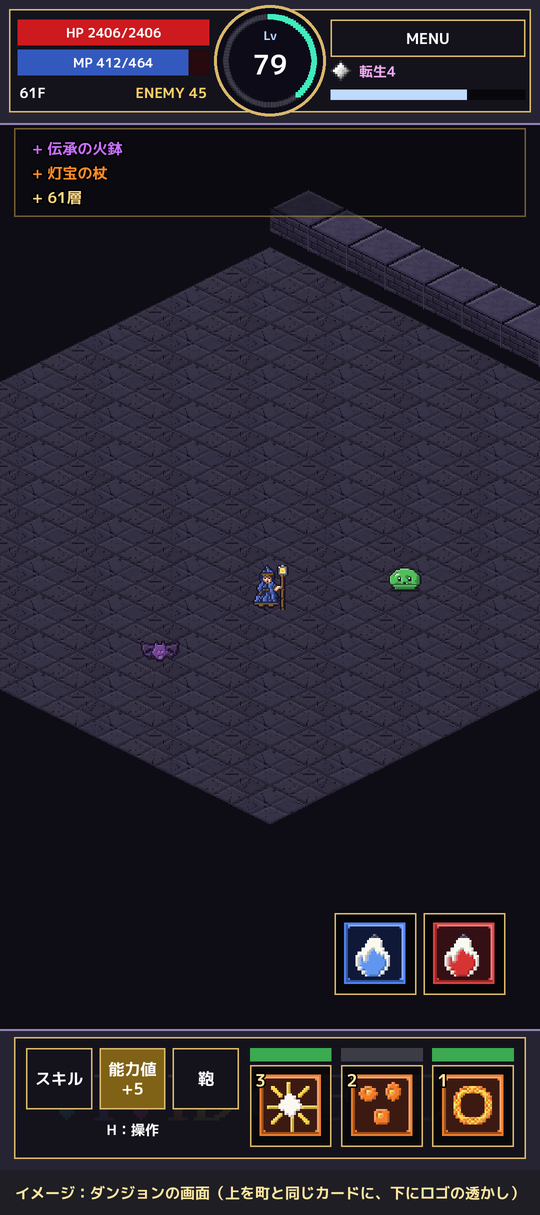
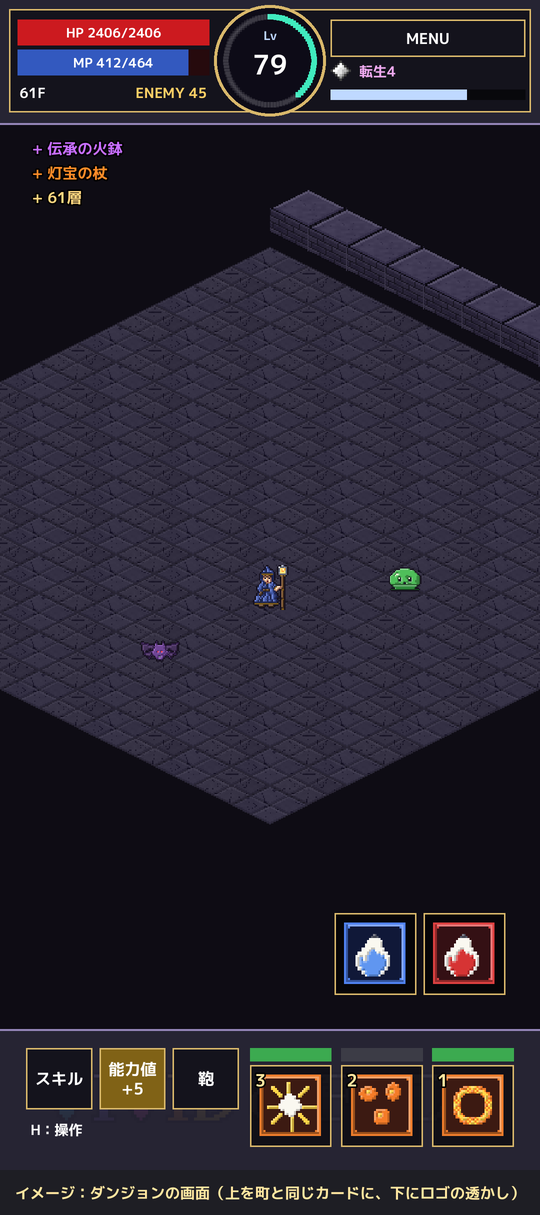
Dungeon HUD: no frame behind the message log or the shortcut area; H hint left-aligned
Claude-Session: https://claude.ai/code/session_01XMEo4x59g4Ygvken3HiQNb

diff --git a/Game/Assets/Scripts/UI/Hud.cs b/Game/Assets/Scripts/UI/Hud.cs
@@ -1546,10 +1546,8 @@ namespace VividOfFade
             var frameColor = FrameGold;
             float frameT = Mathf.Max(2f, Mathf.Round(H * 0.0012f));
             var msgR = MessageWindow;
-            Fill(msgR, new Color(0.03f, 0.03f, 0.05f, 0.5f));                 // 半透明：下のダンジョンが透けて見える
-            OrnateFrame(msgR, new Color(frameColor.r, frameColor.g, frameColor.b, 0.55f), frameT, false, false);
-            var scR = ShortcutPanel;
-            Fill(scR, new Color(0.08f, 0.075f, 0.11f, 1f));
+            // メッセージは枠なし（縁取りした文字だけを、ダンジョンの上に）
+            var scR = ShortcutPanel; // ショートカットの区画は枠なし（帯の上に、ボタンだけを置く）
             {
                 // 透かしのロゴ（ボタンの後ろにうっすら）
                 var logo = TitleArt.Logo;
@@ -1560,7 +1558,6 @@ namespace VividOfFade
                 GUI.DrawTexture(new Rect(scR.center.x - lw2 * 0.5f, scR.center.y - lh * 0.5f, lw2, lh), logo);
                 GUI.color = oldL;
             }
-            OrnateFrame(scR, frameColor, frameT);
 
             // メッセージ：直近の行を残す（新しいものほど下）。来たばかりの行は明るく、古い行は少し暗い
             {
@@ -1620,7 +1617,7 @@ namespace VividOfFade
                 // 操作の案内（PC・エディタ向け）：鞄・能力値・スキルのボタンの下の空きに
                 var q0 = QuickRect(0); var q2 = QuickRect(2);
                 float qx = Mathf.Min(q0.x, q2.x), qw = Mathf.Max(q0.xMax, q2.xMax) - qx;
-                var hint = new GUIStyle(small) { alignment = TextAnchor.MiddleCenter };
+                var hint = new GUIStyle(small) { alignment = TextAnchor.MiddleLeft }; // 左寄せ
                 hint.normal.textColor = new Color(1f, 1f, 1f, 0.5f);
                 GUI.Label(new Rect(qx, q0.yMax + q0.height * 0.08f, qw, q0.height * 0.5f), Loc.T("H: Controls", "H：操作"), hint);
             }
